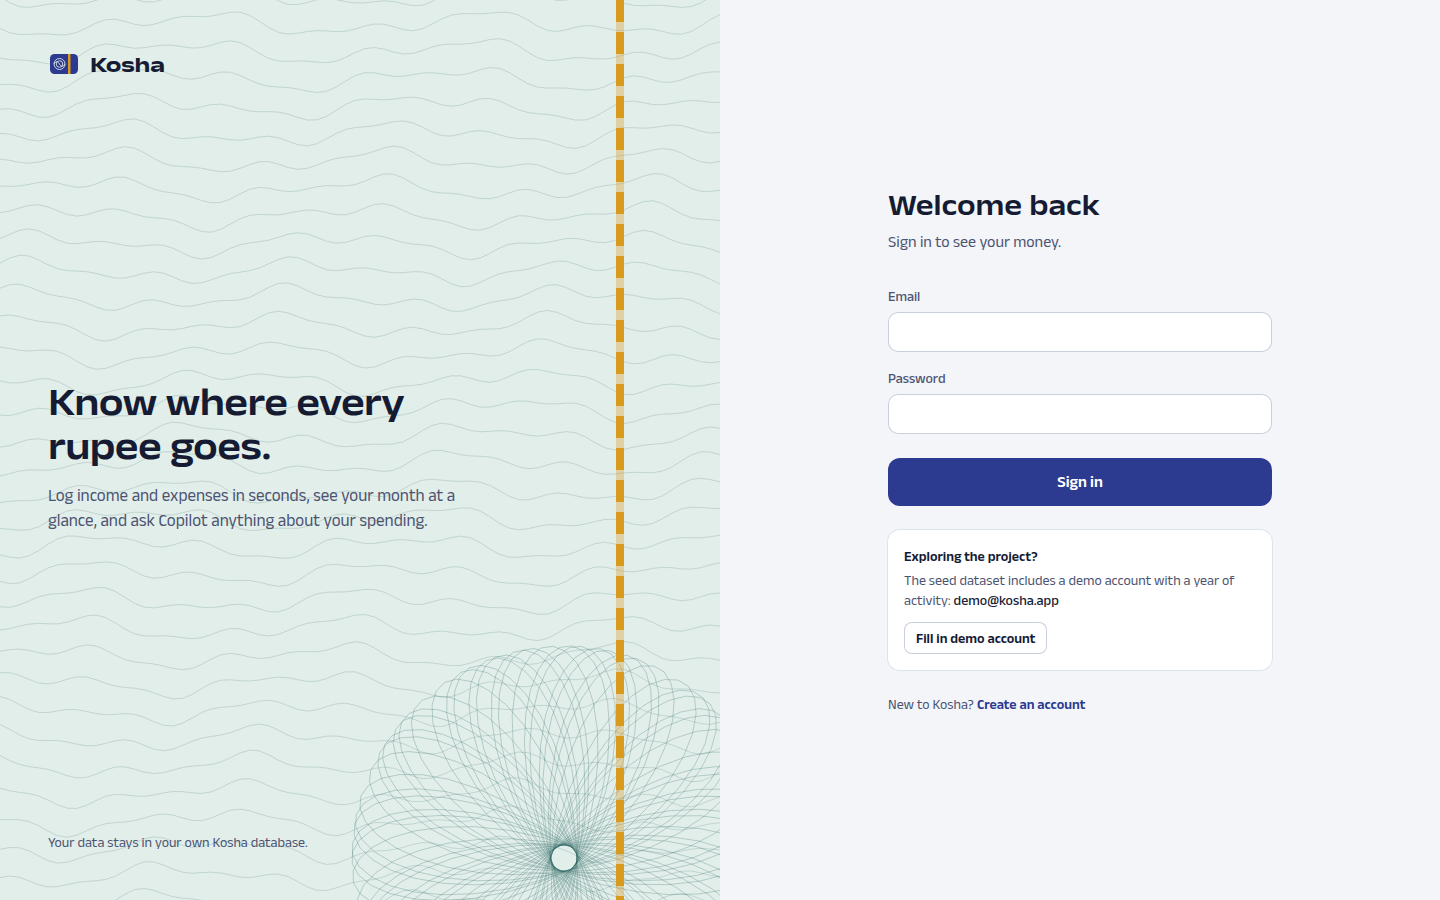
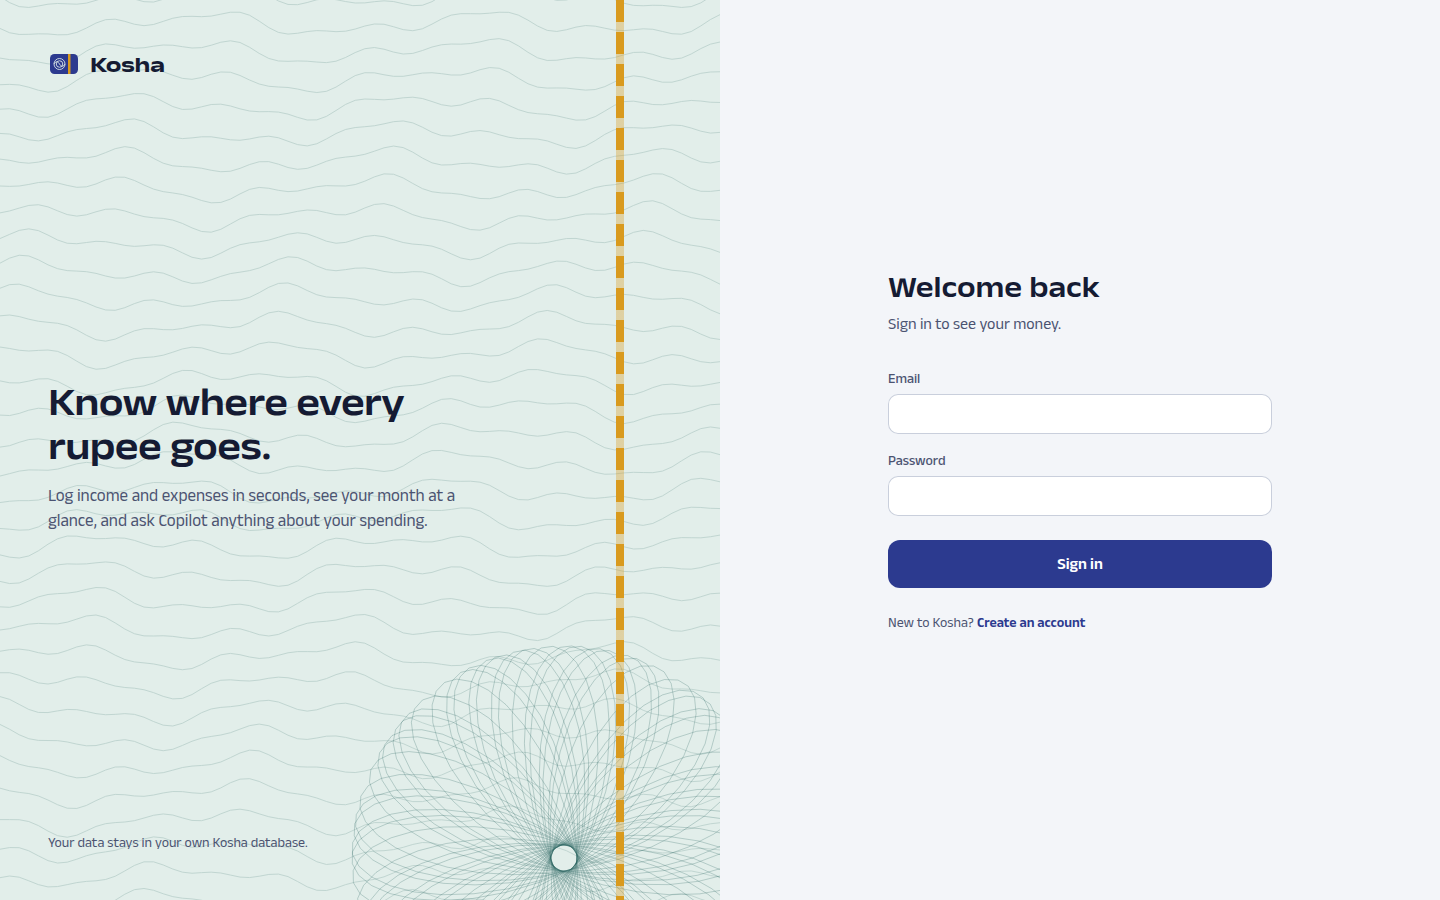
chore(report): capture the sign-in screenshot without the demo-account helper
The helper stays in the app; only the report screenshot hides it.
Adds the Nitte logo for the report cover.

diff --git a/client/src/features/auth/AuthPages.jsx b/client/src/features/auth/AuthPages.jsx
@@ -101,7 +101,7 @@ export function LoginPage() {
           Sign in
         </Button>
       </form>
-      <div className="mt-6 rounded-xl bg-surface p-4 text-sm ring-1 ring-line">
+      <div data-demo-hint className="mt-6 rounded-xl bg-surface p-4 text-sm ring-1 ring-line">
         <p className="font-semibold">Exploring the project?</p>
         <p className="mt-1 text-ink-2">
           The seed dataset includes a demo account with a year of activity: <span className="font-medium text-ink">{DEMO.email}</span>

diff --git a/e2e/capture-screenshots.js b/e2e/capture-screenshots.js
@@ -49,6 +49,9 @@ async function main() {
       const page = await ctx.newPage();
       await page.goto(`${BASE}/login`);
       await settle(page, 2600);
+      // The report shows the plain sign-in form; the demo-account helper stays in the app.
+      await page.addStyleTag({ content: '[data-demo-hint]{display:none!important}' });
+      await page.waitForTimeout(200);
       await shot(page, 'login');
       await ctx.close();
     }
